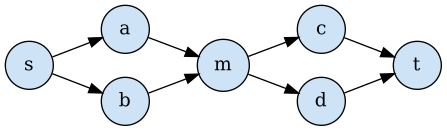
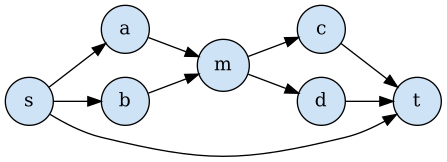
Examples: large deletion in example 3, example 8 from a GFA file, bold our sizes

Changed region(s): [[0.0, 0.0, 0.9888, 0.9771], [0.1454, 0.7634, 0.1745, 0.7939]]

diff --git a/examples/run_examples.py b/examples/run_examples.py
@@ -15,9 +15,11 @@ from diploidgraph import SequenceGraph, build_diploid, decompose
 from diploidgraph.decompose import trivial_decomposition
 from diploidgraph.export import diploid_graph_dot, sequence_graph_dot
 from diploidgraph.generators import random_sp_dag
+from diploidgraph.gfa import read_gfa
 from diploidgraph.validate import brute_force_check
 
 OUT = pathlib.Path(__file__).parent / "out"
+DATA = pathlib.Path(__file__).parent / "data"
 
 
 def examples():
@@ -25,8 +27,9 @@ def examples():
         [("s", "a"), ("a", "t"), ("s", "b"), ("b", "t")])
     yield "02_three_alleles", "One bubble with three alleles.", SequenceGraph.from_edges(
         [("s", "a"), ("a", "t"), ("s", "b"), ("b", "t"), ("s", "c"), ("c", "t")])
-    yield "03_two_bubbles", "Two bubbles in series: pairs differ in either, both, or none.", SequenceGraph.from_edges(
-        [("s", "a"), ("s", "b"), ("a", "m"), ("b", "m"), ("m", "c"), ("m", "d"), ("c", "t"), ("d", "t")])
+    yield "03_two_bubbles", "Two bubbles in series, and a large deletion s -> t that skips both.", SequenceGraph.from_edges(
+        [("s", "a"), ("s", "b"), ("a", "m"), ("b", "m"), ("m", "c"), ("m", "d"), ("c", "t"), ("d", "t"),
+         ("s", "t")])                                                       # large deletion
     yield "04_nested", "A bubble nested inside one allele of an outer bubble (an insertion carrying a SNP).", SequenceGraph.from_edges(
         [("s", "a"), ("a", "b"), ("a", "c"), ("b", "d"), ("c", "d"), ("d", "t"), ("s", "t")])
     yield "05_random_sp", "Random nested series-parallel graph (seed 7).", random_sp_dag(n_ops=10, seed=7)
@@ -35,6 +38,7 @@ def examples():
          ("m", "c"), ("m", "d"), ("c", "d"), ("c", "t"), ("d", "t")])     # W-motif: diagonal c -> d
     yield "07_paper_figure1", "Worked example of the paper (Figure 1); non-series-parallel.", SequenceGraph.from_edges(
         [("u", "u'"), ("u", "v'"), ("u'", "c"), ("u'", "d"), ("c", "v'"), ("d", "v'"), ("u'", "v"), ("v'", "v")])
+    yield "08_gfa", "Read from a GFA file (examples/data/locus.gfa): a SNP and a 16 bp deletion.", read_gfa(str(DATA / "locus.gfa")).graph
 
 
 def render(dot_path: pathlib.Path) -> None:
@@ -51,8 +55,8 @@ def main() -> None:
 
     # Cartesian product with a fixed order of moves = the same construction without decomposition:
     # same pairs, same unit (vertices), so it is the like-for-like comparison.
-    rows = ["| Example | Description | \\|V\\| | \\|E\\| | s-t paths N | P-nodes | \\|V(G_D)\\| | new vertices | \\|V\\| of Cartesian product | exact |",
-            "|---|---|---|---|---|---|---|---|---|---|"]
+    rows = ["| Example | Description | \\|V\\| | \\|E\\| | s-t paths N | P-nodes | **\\|V(G_D)\\| (ours)** | \\|V\\| of Cartesian product | exact |",
+            "|---|---|---|---|---|---|---|---|---|"]
     for name, desc, g in examples():
         s, t = g.terminals()
         n = g.count_paths(s, t)
@@ -62,7 +66,7 @@ def main() -> None:
         exact = brute_force_check(g, gd)["exact"]
         (OUT / f"{name}_diploid.dot").write_text(diploid_graph_dot(gd))
         cart, _ = build_diploid(g, trivial_decomposition(g))
-        row = [gd.num_vertices(), gd.num_het_vertices(), cart.num_vertices(), "yes" if exact else "NO"]
+        row = [f"**{gd.num_vertices()}**", cart.num_vertices(), "yes" if exact else "NO"]
         rows.append(f"| {name} | {desc} | {g.num_vertices()} | {g.num_edges()} | {n} | {len(dec.nodes('P'))} | " + " | ".join(map(str, row)) + " |")
         if args.png:
             for f in OUT.glob(f"{name}_*.dot"):

diff --git a/examples/README.md b/examples/README.md
@@ -1,7 +1,7 @@
 # Worked examples
 
-Seven small sequence graphs, from a single SNP to a non-series-parallel W-motif,
-including the worked example of the paper.
+Eight small sequence graphs, from a single SNP to a non-series-parallel W-motif,
+including the worked example of the paper and one graph read from a GFA file.
 For each one: the input graph, its diploid graph, and an exactness check (every
 ordered pair of source-to-sink paths of the input is decoded by exactly one walk
 of the diploid graph, verified by brute force).
@@ -9,15 +9,16 @@ of the diploid graph, verified by brute force).
 `python examples/run_examples.py --png` (run from the repository root) regenerates
 the figures and the table below in `examples/out/`.
 
-| Example | \|V\| | s-t paths N | P-nodes | \|V(G_D)\| | new vertices | \|V\| of Cartesian product | exact |
-|---|---|---|---|---|---|---|---|
-| 1. One bubble (SNP) | 4 | 2 | 1 | 6 | 2 | 14 | yes |
-| 2. Three alleles | 5 | 3 | 1 | 11 | 6 | 31 | yes |
-| 3. Two bubbles in series | 7 | 4 | 2 | 11 | 4 | 27 | yes |
-| 4. Nested bubble (insertion carrying a SNP) | 6 | 3 | 2 | 10 | 4 | 36 | yes |
-| 5. Random nested series-parallel graph | 18 | 7 | 4 | 34 | 16 | 262 | yes |
-| 6. Bubble followed by a W-motif (non-series-parallel) | 7 | 6 | 1 | 23 | 16 | 31 | yes |
-| 7. Worked example of the paper (Figure 1) | 6 | 4 | 1 | 22 | 16 | 46 | yes |
+| Example | \|V\| | s-t paths N | P-nodes | **\|V(G_D)\| (ours)** | \|V\| of Cartesian product | exact |
+|---|---|---|---|---|---|---|
+| 1. One bubble (SNP) | 4 | 2 | 1 | **6** | 14 | yes |
+| 2. Three alleles | 5 | 3 | 1 | **11** | 31 | yes |
+| 3. Two bubbles in series and a large deletion | 7 | 5 | 3 | **13** | 49 | yes |
+| 4. Nested bubble (insertion carrying a SNP) | 6 | 3 | 2 | **10** | 36 | yes |
+| 5. Random nested series-parallel graph | 18 | 7 | 4 | **34** | 262 | yes |
+| 6. Bubble followed by a W-motif (non-series-parallel) | 7 | 6 | 1 | **23** | 31 | yes |
+| 7. Worked example of the paper (Figure 1) | 6 | 4 | 1 | **22** | 46 | yes |
+| 8. Read from a GFA file (SNP and a 16 bp deletion) | 6 | 4 | 2 | **10** | 22 | yes |
 
 **Cartesian product** is the Cartesian product with a fixed order of moves: the
 same pair-state construction applied to the whole input, without decomposition.
@@ -45,13 +46,17 @@ A bubble with three branches adds one vertex per ordered pair of distinct branch
 
 <img src="out/02_three_alleles_input.png" height="130"> &nbsp;&nbsp; <img src="out/02_three_alleles_diploid.png" height="260">
 
-## 3. Two bubbles in series
+## 3. Two bubbles in series and a large deletion
 
-The two haplotypes can differ at either bubble, at both, or at none. Each bubble is
-expanded once (4 new vertices); the Cartesian product needs 27 vertices in all, against 11.
+Two bubbles in series, plus a direct edge `s -> t` that skips both: a large
+deletion. The two haplotypes can differ at either bubble, at both, or at none,
+and either one can carry the deletion. The deletion makes one more P-node with
+two branches (the direct edge and the rest of the graph), so it adds only two
+vertices: `(-, rest)` and `(rest, -)`. In all, 13 vertices against 49 for the
+Cartesian product.
 
 <img src="out/03_two_bubbles_input.png" height="110"><br>
-<img src="out/03_two_bubbles_diploid.png" height="190">
+<img src="out/03_two_bubbles_diploid.png" height="260">
 
 ## 4. Nested bubble (insertion carrying a SNP)
 
@@ -73,7 +78,7 @@ A larger random example with four nested bubbles.
 A bubble `s -> {a, b} -> m`, then a W-motif with diagonal edge `c -> d`. The bubble
 is handled as in example 1; inside the W-motif the two haplotypes are followed with
 pair states until they meet again at `d` or `t`. The 6 single-haplotype moves are drawn as
-labelled arrows; in the table they are counted as vertices (16 new vertices in total).
+labelled arrows; in the table they are counted as vertices (23 vertices in total).
 
 <img src="out/06_w_motif_input.png" height="130"><br>
 <img src="out/06_w_motif_diploid.png" width="100%">
@@ -91,3 +96,67 @@ is decoded by exactly one walk.
 
 <img src="out/07_paper_figure1_input.png" height="130"><br>
 <img src="out/07_paper_figure1_diploid.png" width="100%">
+
+## 8. Read from a GFA file
+
+A small GFA file, [data/locus.gfa](data/locus.gfa), in the format of a
+pangenome graph: six segments, a SNP (segments `2` and `3`, `A` or `G`) and a
+16 bp deletion (the link `4 -> 6` skips segment `5`), and five haplotype walks
+(`W` lines).
+
+```
+S	1	ACGTTGCA
+S	2	A
+S	3	G
+S	4	CCTAGGTA
+S	5	TTGACCATGGCATTAG
+S	6	GATC
+L	1	+	2	+	0M
+L	1	+	3	+	0M
+L	2	+	4	+	0M
+L	3	+	4	+	0M
+L	4	+	5	+	0M
+L	5	+	6	+	0M
+L	4	+	6	+	0M
+W	GRCh38	0	chr1	0	37	>1>2>4>5>6
+W	HG001	1	chr1	0	21	>1>3>4>6
+W	HG001	2	chr1	0	37	>1>2>4>5>6
+W	HG002	1	chr1	0	37	>1>3>4>5>6
+W	HG002	2	chr1	0	21	>1>2>4>6
+```
+
+Build the diploid graph, check it and report its size from the command line:
+
+```bash
+diploidgraph examples/data/locus.gfa --json stats.json
+```
+
+Main fields of the output (times and memory depend on the machine):
+
+```
+"n_vertices": 6,
+"n_edges": 7,
+"is_series_parallel": true,
+"n_pnodes": 2,
+"diploid_vertices": 10,
+"diploid_edges": 15,
+"exactness_check": "exact",
+```
+
+The same in Python:
+
+```python
+from diploidgraph import build_diploid
+from diploidgraph.gfa import read_gfa
+
+g = read_gfa("examples/data/locus.gfa").graph
+gd, decomposition = build_diploid(g)
+print(gd.num_vertices())   # 10
+```
+
+In the diploid graph, `(3, 2)` and `(2, 3)` are the two heterozygous states of
+the SNP, and `(-, 5)` and `(5, -)` are the two states where exactly one
+haplotype carries the deletion.
+
+<img src="out/08_gfa_input.png" height="110"><br>
+<img src="out/08_gfa_diploid.png" height="230">

diff --git a/examples/out/summary.md b/examples/out/summary.md
@@ -1,9 +1,10 @@
-| Example | Description | \|V\| | \|E\| | s-t paths N | P-nodes | \|V(G_D)\| | new vertices | \|V\| of Cartesian product | exact |
-|---|---|---|---|---|---|---|---|---|---|
-| 01_bubble | One bubble (a SNP): s -> {a, b} -> t. | 4 | 4 | 2 | 1 | 6 | 2 | 14 | yes |
-| 02_three_alleles | One bubble with three alleles. | 5 | 6 | 3 | 1 | 11 | 6 | 31 | yes |
-| 03_two_bubbles | Two bubbles in series: pairs differ in either, both, or none. | 7 | 8 | 4 | 2 | 11 | 4 | 27 | yes |
-| 04_nested | A bubble nested inside one allele of an outer bubble (an insertion carrying a SNP). | 6 | 7 | 3 | 2 | 10 | 4 | 36 | yes |
-| 05_random_sp | Random nested series-parallel graph (seed 7). | 18 | 23 | 7 | 4 | 34 | 16 | 262 | yes |
-| 06_w_motif | Smallest non-series-parallel graph (W-motif) in series with a bubble; core handled by pair states. | 7 | 9 | 6 | 1 | 23 | 16 | 31 | yes |
-| 07_paper_figure1 | Worked example of the paper (Figure 1); non-series-parallel. | 6 | 8 | 4 | 1 | 22 | 16 | 46 | yes |
+| Example | Description | \|V\| | \|E\| | s-t paths N | P-nodes | **\|V(G_D)\| (ours)** | \|V\| of Cartesian product | exact |
+|---|---|---|---|---|---|---|---|---|
+| 01_bubble | One bubble (a SNP): s -> {a, b} -> t. | 4 | 4 | 2 | 1 | **6** | 14 | yes |
+| 02_three_alleles | One bubble with three alleles. | 5 | 6 | 3 | 1 | **11** | 31 | yes |
+| 03_two_bubbles | Two bubbles in series, and a large deletion s -> t that skips both. | 7 | 9 | 5 | 3 | **13** | 49 | yes |
+| 04_nested | A bubble nested inside one allele of an outer bubble (an insertion carrying a SNP). | 6 | 7 | 3 | 2 | **10** | 36 | yes |
+| 05_random_sp | Random nested series-parallel graph (seed 7). | 18 | 23 | 7 | 4 | **34** | 262 | yes |
+| 06_w_motif | Smallest non-series-parallel graph (W-motif) in series with a bubble; core handled by pair states. | 7 | 9 | 6 | 1 | **23** | 31 | yes |
+| 07_paper_figure1 | Worked example of the paper (Figure 1); non-series-parallel. | 6 | 8 | 4 | 1 | **22** | 46 | yes |
+| 08_gfa | Read from a GFA file (examples/data/locus.gfa): a SNP and a 16 bp deletion. | 6 | 7 | 4 | 2 | **10** | 22 | yes |

diff --git a/README.md b/README.md
@@ -202,9 +202,10 @@ check. Tests run on every push (see badge).
 
 ## Examples
 
-Seven small worked examples (single bubble, three alleles, bubbles in series, a
-nested bubble, a random nested graph, a W-motif, and the worked example of the
-paper, Figure 1), each with input and diploid graph figures and an exactness check: [examples/README.md](examples/README.md).
+Eight small worked examples (single bubble, three alleles, bubbles in series with
+a large deletion, a nested bubble, a random nested graph, a W-motif, the worked
+example of the paper (Figure 1), and a small GFA file run from the command line),
+each with input and diploid graph figures and an exactness check: [examples/README.md](examples/README.md).
 
 ## Experiments
 
